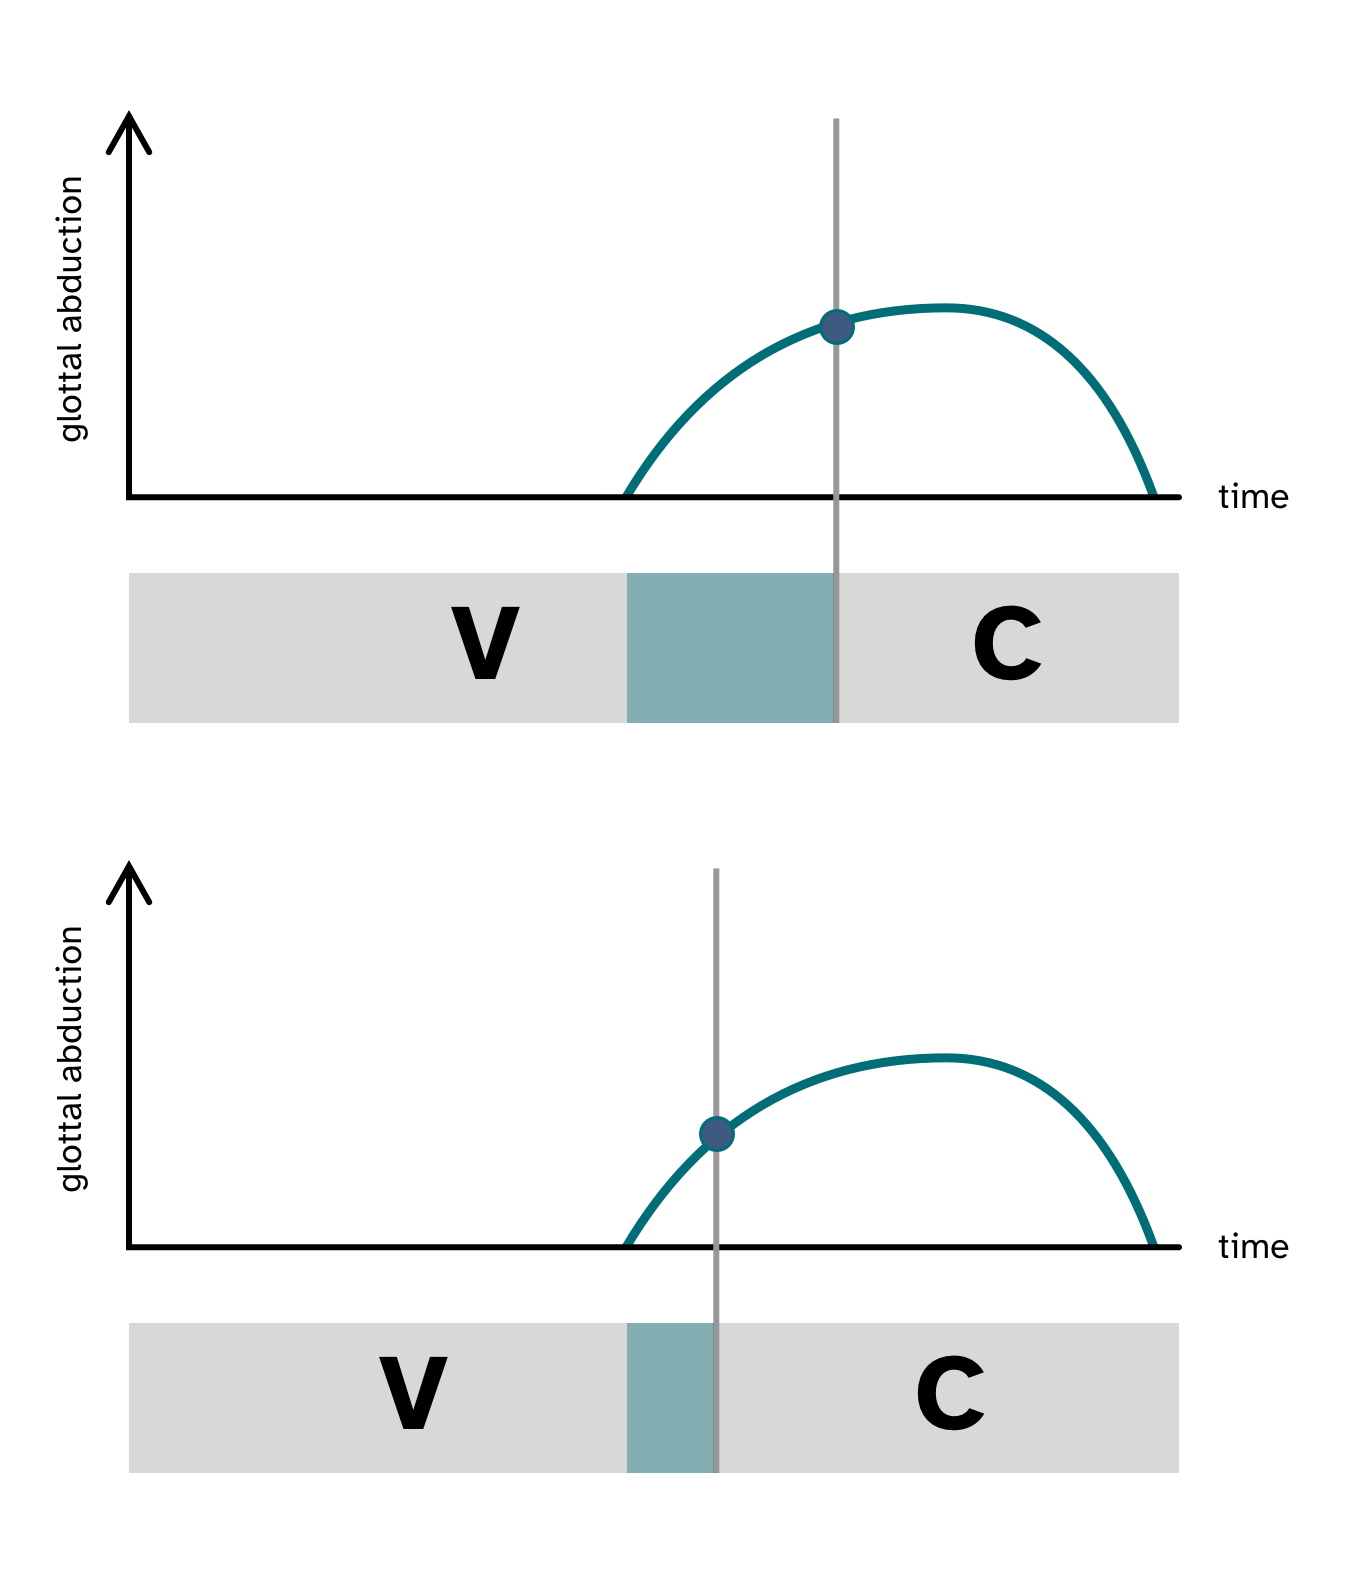
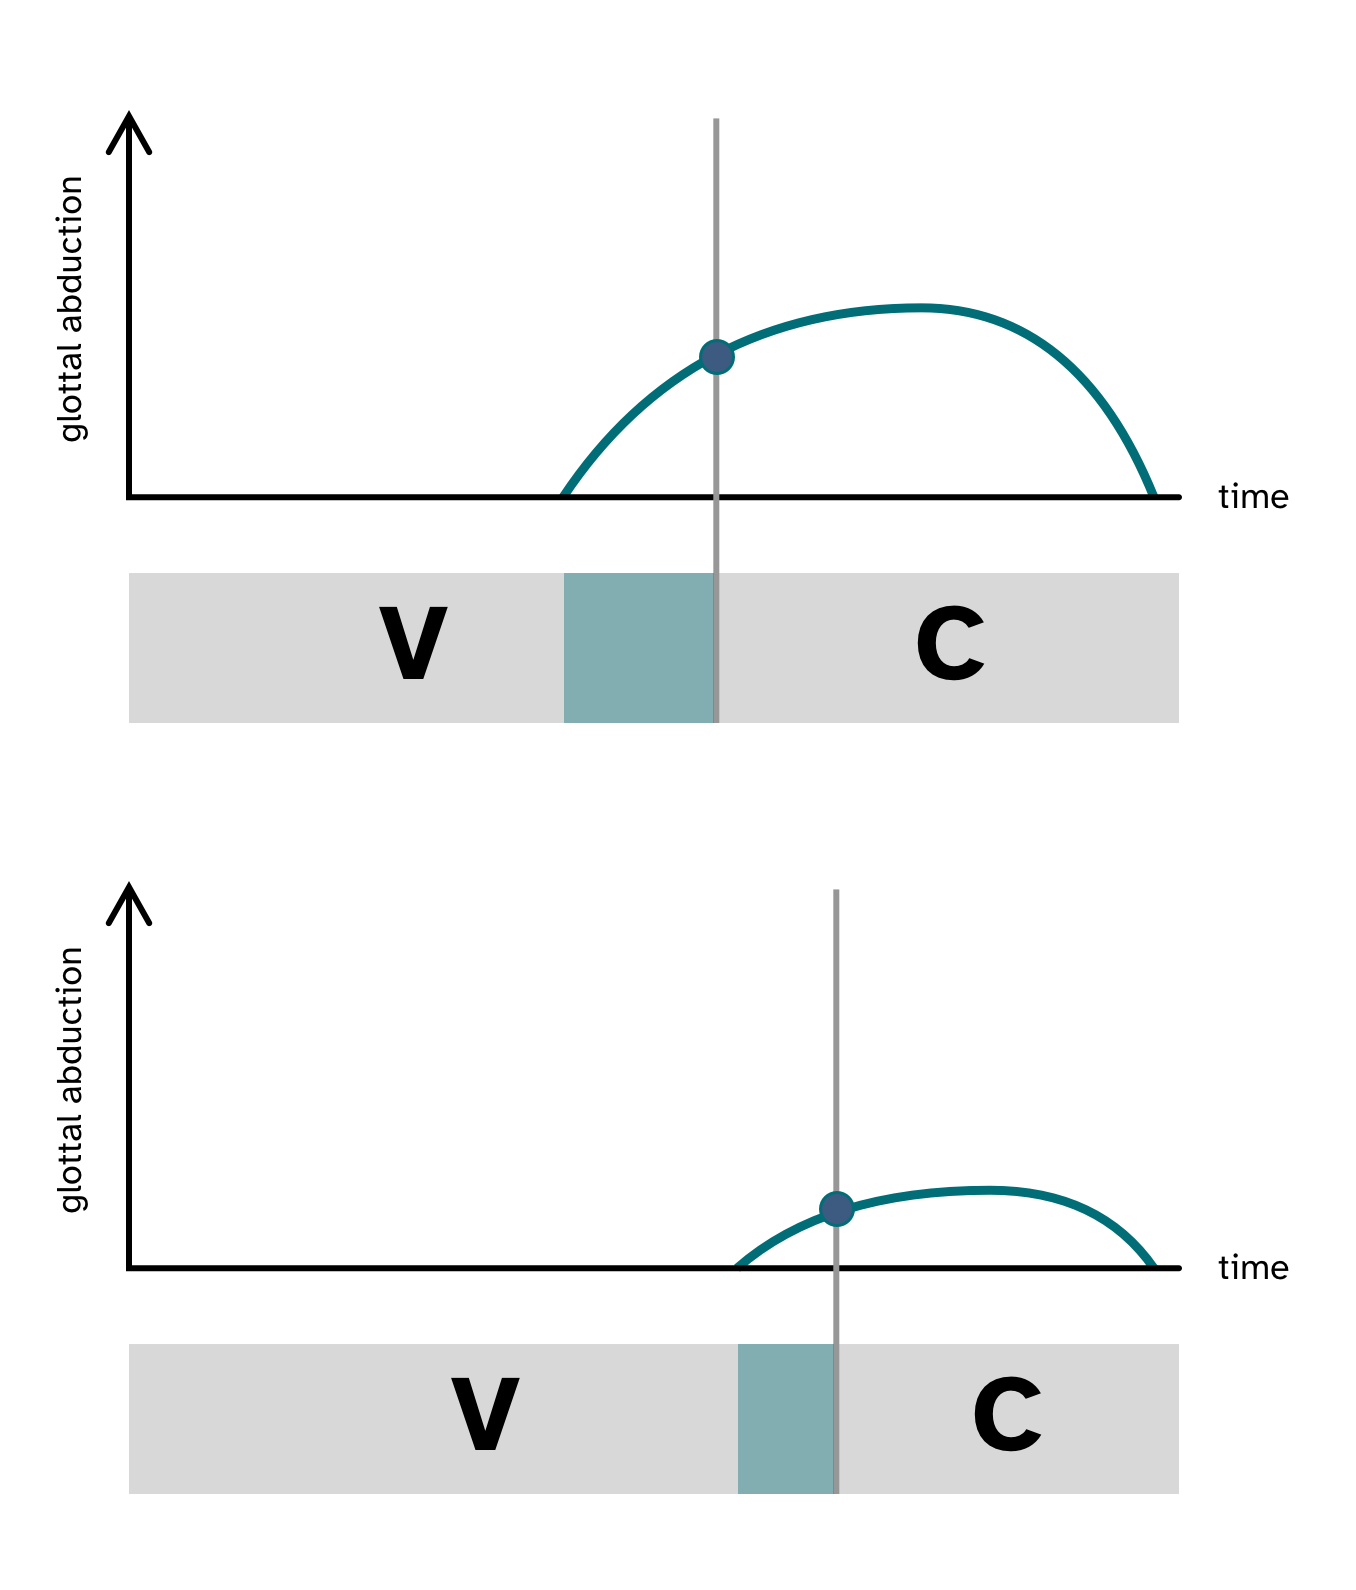
✨ - end presentation!

diff --git a/index.html b/index.html
@@ -36,27 +36,39 @@ class: center middle inverse
 
 # Coarticulation and sound change
 
-* Coarticulation is a known factor in the development of sound change.
+.bg-washed-green.b--dark-green.ba.bw2.br3.shadow-5.ph4.mt5[
+**Coarticulation** is a known factor in the development of sound change.
+]
 
 --
 
-* Speech is a complex system of finely coordinated movements that unfold in time.
+.bg-washed-yellow.b--yellow.ba.bw2.br3.shadow-5.ph4.mt5[
+Speech is a complex system of **finely coordinated movements that unfold in time**.
+]
 
 --
 
-* What can dynamic articulatory data tells us about sound change?
+.bg-washed-blue.b--dark-blue.ba.bw2.br3.shadow-5.ph4.mt5[
+What can **dynamic articulatory data** tells us about sound change?
+]
 
 ---
 
-# Three case studies
+# Two case studies
+
+.bg-washed-blue.b--dark-blue.ba.bw2.br3.shadow-5.ph4.mt5[
+**Case study 1**
 
 * Tongue root position and timing of oral closure in VC sequences.
+* Ultrasound tongue imaging of Italian and Polish.
+]
+
+.bg-washed-blue.b--dark-blue.ba.bw2.br3.shadow-5.ph4.mt5[
+**Case Study 2**
 
 * Glottal spread and timing of oral closure in VC sequences.
-
-* Coordination of velum and tongue tip in VNC sequences.
-
-
+* Electroglottography of Italian and Polish.
+]
 
 
 
@@ -141,23 +153,35 @@ background-size: contain
 # Afterthoughts
 
 - Findings are in line with previous work on tongue root .f6[(Kent &amp; Moll 1969; Perkell 1969; Westbury 1983; Ahn 2018; Vazquez-Alvarez &amp; Hewlett 2007)].
+
+--
+
   - Tongue root movement onset during the articulation of the vowel.
   - Advancement both when following stop is voiced *and* voiceless.
 
 --
 
 - Later closure onset has double advantage:
+
+--
+
   1. A greater degree of tongue root advancement is achieved at vowel offset/closure onset.
   2. The stop closure is shorter.
 
 --
 
 - Double advantage as a catalyst for sound change.
+
+--
+
   - Positive feedback loop of productions with later closure onset.
 
 --
 
 - **Mean VT/VD difference: 0.77 mm.** For every **+1 ms** of vowel duration, about **+0.065 mm** advancement of the tongue.
+
+--
+
   - For an average closure of 70-90 ms, estimated maximum advancement of 4.55 to 5.85 mm.
   - Matches the observed maximum advancement of previous work .f6[(Rothenberg 1967)].
 
@@ -200,16 +224,31 @@ background-size: contain
 
 ---
 
-# From synchony to diachrony
+# From synchony...
+
+.center[
+![:scale 60%](img/spread-duration-syn.png)
+]
+
+---
+
+# ...to diachrony
 
 .pull-left[
-![](img/spread-duration-syn.png)
+
+**Emergence of preaspiration**
+&lt;br&gt;.f6[(Nı́ Chasaide 1985;  Stevens, Keyser &amp; Kawasaki 2014)]
+
+![](img/spread-duration-dia-1.png)
 ]
 
 --
 
 .pull-right[
-![](img/spread-duration-dia.png)
+
+**Prehemption of preaspiration emergence** .f6[(Lisker 1974)]
+
+![](img/spread-duration-dia-2.png)
 ]
 
 ---
@@ -217,21 +256,46 @@ background-size: contain
 # Afterthoughts
 
 - Findings are compatible with reported presence of preaspiration in Italian .f6[(Nı́ Chasaide &amp; Gobl 1993; Stevens &amp; Hajek 2004a; Stevens &amp; Hajek 2004b; Stevens &amp; Hajek 2010; Stevens 2010; Stevens &amp; Reubold 2014)].
+
+--
+
   - Increased glottal abduction as precursor of voiceless pre-aspiration .f6[(Berg 1958; Rothenberg 1967; Ohala 2011)].
 
 --
 
 - Emergence of preaspiration.
+
+--
+
   - Earlier glottal spread first &gt; then shorter closure .f6[(Nı́ Chasaide 1985;  Stevens, Keyser &amp; Kawasaki 2014)].
 
 --
 
 - Prevention of preaspiration.
+
+--
+
   - Earlier glottal spread first &gt; then earlier closure .f6[(Lisker 1974)]
 
 ---
 
 # Bringing it all together
+
+.bg-washed-green.b--dark-green.ba.bw2.br3.shadow-5.ph4.mt5[
+Detailed **articulatory descriptions based on dynamic speech data** can shed light on possible pathways of sound change.
+]
+
+--
+
+.bg-washed-yellow.b--yellow.ba.bw2.br3.shadow-5.ph4.mt5[
+The orchestration of finely coordinated movements contributes to the **pool of variability from which sound change can unfold**.
+]
+
+--
+
+.bg-washed-blue.b--dark-blue.ba.bw2.br3.shadow-5.ph4.mt5[
+Recent technological advancements have opened up new avenues of inquiry about the **role of coarticulation in the unfolding of sound change**.
+]
 
 ---
 
